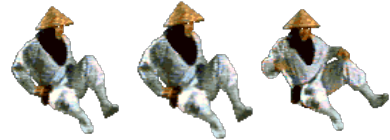
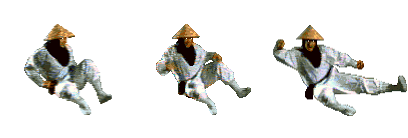
Agregada funcionalidad PunchJump para ambos personajes y modificados sus sprites. Agregados tambien sprites para KickingJump, pero falta el codigo.

diff --git a/model/MKCharacter.cpp b/model/MKCharacter.cpp
@@ -187,7 +187,13 @@ void MKCharacter::setHit(string newHit) {
 				delay = 3;
 			}
 
-			if ((newHit == "KICK") || (newHit == "KICKDOWN")  || (newHit == "PUNCH")  || (newHit == "PUNCHUP") || (newHit == "SHOOT")){
+			if (newHit == "PUNCHJUMPLEFT" || newHit == "PUNCHJUMPRIGHT") {
+				spriteWidth = stanceWidth;
+				delay = 0;
+			}
+
+			if ((newHit == "KICK") || (newHit == "KICKDOWN")  || (newHit == "PUNCH")  || (newHit == "PUNCHUP") || (newHit == "SHOOT") ||
+				(newHit == "PUNCHJUMPLEFT") || (newHit == "PUNCHJUMPRIGHT")){
 
 				if (this->getHitDelay() <= 0) {
 					this->setHitDelay(delay);
@@ -269,6 +275,7 @@ void MKCharacter::receiveBlow(int force, char direction) {
 		GameController::setVibrating(true);
 		if (direction != 0)
 		{
+			cout << direction << endl;
 			(direction == 'l') ? this->setMovement("LEFT") : this->setMovement("RIGHT");
 		}
 	}

diff --git a/model/constantes.h b/model/constantes.h
@@ -98,7 +98,7 @@ const char* const NAME_CHARACTER_2          = "raiden";
 const int         FULL_LIFE                 = 100;
 
 typedef std::map<std::string, int> Map;
-const Map DAMAGE = {{"KICK", 10},{"PUNCH", 5}, {"KICKDOWN", 20} ,{"PUNCHUP", 20},{"SHOOT", 20}, {"DEFENSE", 0}};
+const Map DAMAGE = {{"KICK", 10},{"PUNCH", 5}, {"KICKDOWN", 20} ,{"PUNCHUP", 20},{"SHOOT", 20}, {"DEFENSE", 0}, {"PUNCHJUMPLEFT", 20}, {"PUNCHJUMPRIGHT", 20}};
 //
 //const int OPONENTLEFT                       =    1;
 //const int OPONENTRIGHT                      =    2;

diff --git a/controller/Collider.cpp b/controller/Collider.cpp
@@ -42,7 +42,7 @@ void Collider::checkHits(MKCharacter* character1, MKCharacter* character2) {
 				if (character1->getHitDelay() == 0 && (!(character2->getHit() == "DEFENSE") || character1->getHit() == "KICKDOWN")) {
 					if (!((character1->getHit() == "PUNCH" || character1->getHit() == "KICK" || character1->getHit() == "PUNCHUP") &&
 						(character2->getMovement() == "DUCK"))) 
-					{
+					{ 
 						character2->receiveBlow(DAMAGE.at(character1->getHit()), 0);
 					}
 				}
